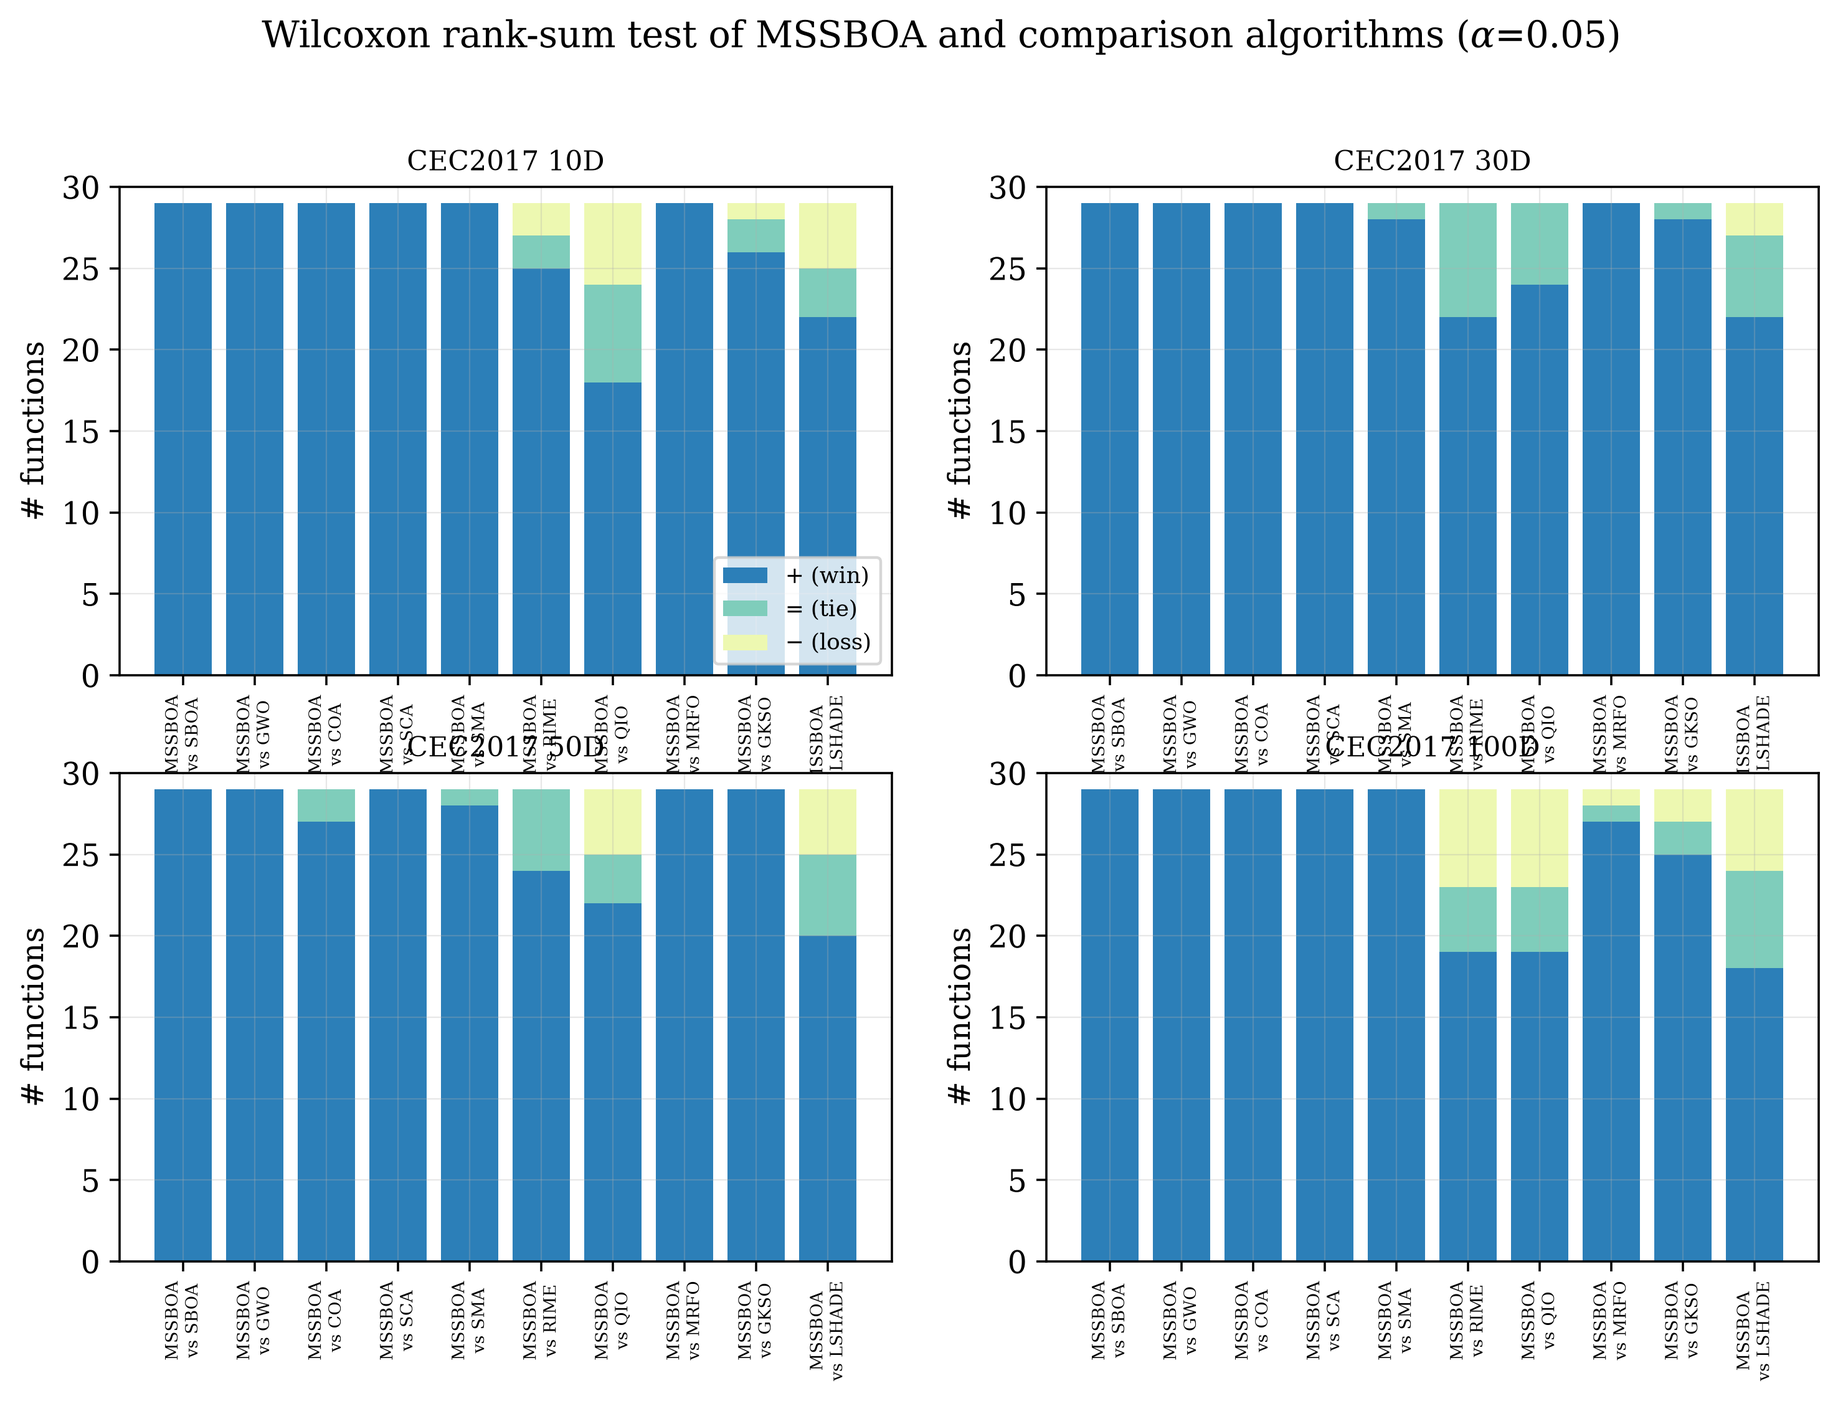
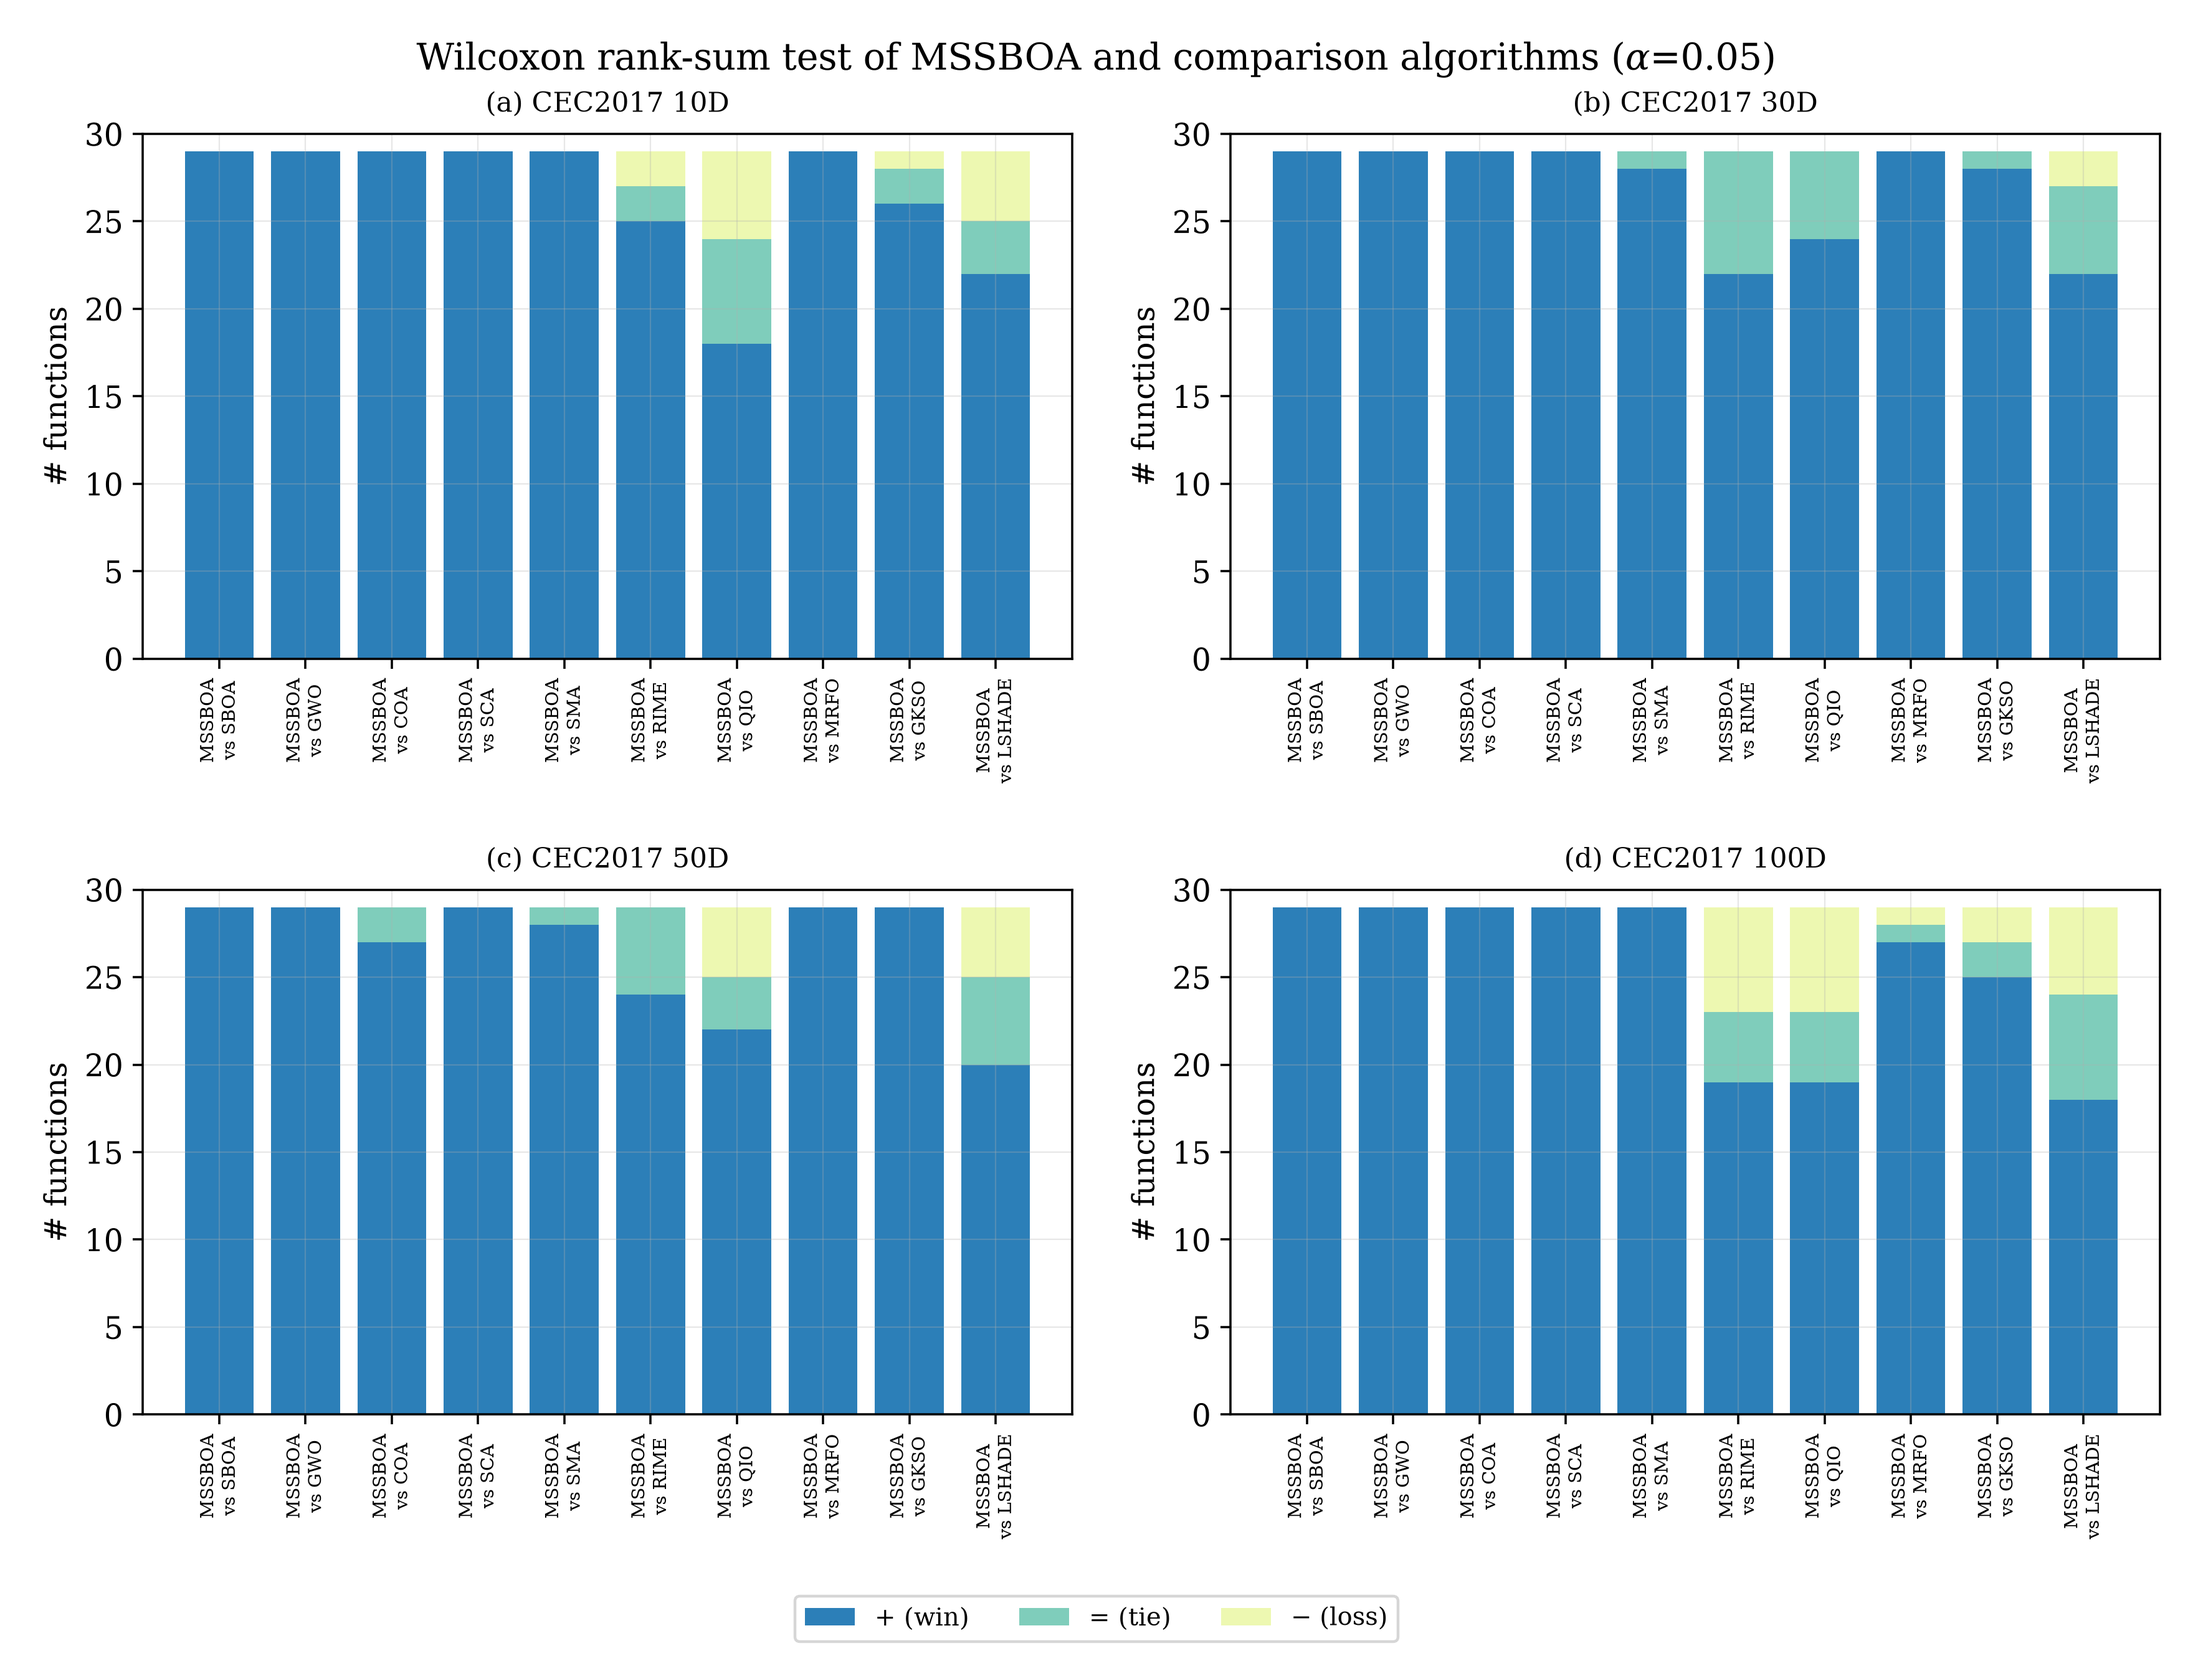
Fix Figure 11 (Wilcoxon visualization): legend below, no overlapping text
- Move the legend out of panel (a), where it covered the bars, into a single
  shared legend beneath the figure.
- Add vertical spacing so the rotated "MSSBOA vs X" tick labels of the top row
  no longer collide with the (c) / (d) titles; the bottom row moves down.
- Label the panels (a)-(d) to match the figure caption.

Claude-Session: https://claude.ai/code/session_016CfgsJrsDt54Fo8YTCmUBJ

diff --git a/paper/src/figs_stats.py b/paper/src/figs_stats.py
@@ -128,20 +128,28 @@ fig.suptitle("Nemenyi post-hoc test of MSSBOA and comparison algorithms",y=1.0)
 p=os.path.join(FIG,"fig09_nemenyi.png"); fig.savefig(p,bbox_inches="tight"); plt.close(fig); print("saved fig09_nemenyi.png")
 
 # ---------- Fig 10: Wilcoxon +/=/- stacked bars (2x2) ----------
-fig,axes=plt.subplots(2,2,figsize=(11.0,7.0))
+# Shared legend BELOW the figure (it used to cover the bars of panel (a)), and
+# extra hspace so the rotated tick labels never touch the row of titles below.
+fig,axes=plt.subplots(2,2,figsize=(11.0,8.4))
 comp=[a for a in ALGOS if a!="MSSBOA"]
-for ax,d in zip(axes.ravel(),DIMS):
+panel=["(a)","(b)","(c)","(d)"]
+for k,(ax,d) in enumerate(zip(axes.ravel(),DIMS)):
     wil=cec["results"][str(d)]["wilcoxon"]
     plus=[wil[a][0] for a in comp]; eq=[wil[a][1] for a in comp]; minus=[wil[a][2] for a in comp]
     x=np.arange(len(comp))
     ax.bar(x,plus,color="#2c7fb8",label="+ (win)")
     ax.bar(x,eq,bottom=plus,color="#7fcdbb",label="= (tie)")
     ax.bar(x,minus,bottom=np.array(plus)+np.array(eq),color="#edf8b1",label="$-$ (loss)")
-    ax.set_xticks(x); ax.set_xticklabels(["MSSBOA\nvs "+a for a in comp],fontsize=6,rotation=90)
-    ax.set_ylabel("# functions"); ax.set_title(f"CEC2017 {d}D",fontsize=10); ax.set_ylim(0,len(FUNCS)+1)
-axes.ravel()[0].legend(fontsize=8,loc="lower right")
-fig.suptitle(r"Wilcoxon rank-sum test of MSSBOA and comparison algorithms ($\alpha$=0.05)",y=1.0)
-p=os.path.join(FIG,"fig10_wilcoxon.png"); fig.savefig(p,bbox_inches="tight"); plt.close(fig); print("saved fig10_wilcoxon.png")
+    ax.set_xticks(x); ax.set_xticklabels(["MSSBOA\nvs "+a for a in comp],fontsize=6.5,rotation=90)
+    ax.set_ylabel("# functions")
+    ax.set_title(f"{panel[k]} CEC2017 {d}D",fontsize=10,pad=8)
+    ax.set_ylim(0,len(FUNCS)+1)
+handles,labels=axes.ravel()[0].get_legend_handles_labels()
+fig.suptitle(r"Wilcoxon rank-sum test of MSSBOA and comparison algorithms ($\alpha$=0.05)",y=0.975)
+fig.subplots_adjust(left=0.065,right=0.985,top=0.92,bottom=0.155,wspace=0.17,hspace=0.44)
+fig.legend(handles,labels,loc="lower center",ncol=3,frameon=True,fontsize=9,
+           bbox_to_anchor=(0.5,0.012),columnspacing=2.0,handlelength=2.0)
+p=os.path.join(FIG,"fig10_wilcoxon.png"); fig.savefig(p); plt.close(fig); print("saved fig10_wilcoxon.png")
 
 # ---------- Convergence curves (representative functions, 30D) ----------
 def conv_curve(final_err, dim, seed):
